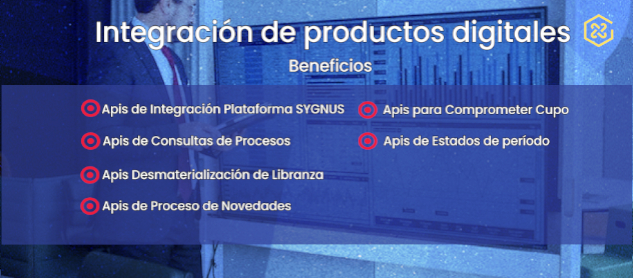
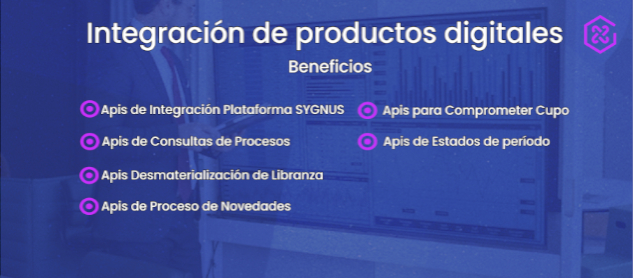
Changes products

diff --git a/Pagina_insNorth/index.html b/Pagina_insNorth/index.html
@@ -342,9 +342,6 @@
                       Beneficios legales
                     </h3>
 
-                    <p class="card-text">
-                      Cumplimiento de la Ley 1527 del 2012 y del decreto 1348 del 2016.
-                    </p>
                   </div>
                 </div>
               </a>
@@ -356,13 +353,7 @@
               <a href="assets/img/porf-2.jpg" class="portfolio-lightbox" data-gallery="portfolioGallery"><img alt="" src="assets/img/porf-2.jpg">
                 <div class="portfolio-over">
                   <div>
-                    <h3 class="card-title">
-                      Beneficios fiscales 
-                    </h3>
-
-                    <p class="card-text">
-                      Auditoría inmediata sobre todos los procesos de libranzas.
-                    </p>
+                    <i class="bi bi-person-check"></i>
                   </div>
                 </div>
               </a>
@@ -378,9 +369,7 @@
                       Beneficios operativos
                     </h3>
 
-                    <p class="card-text">
-                      Reduccción de carga operativa en todos los procesos de libranzas.
-                    </p>
+      
                   </div>
                 </div>
               </a>
@@ -396,9 +385,7 @@
                       Beneficios operativos
                     </h3>
 
-                    <p class="card-text">
-                      Integración al sistema documen68Hardal de la pagaduría.
-                    </p>
+    
                   </div>
                 </div>
               </a>
@@ -416,9 +403,6 @@
                       Beneficios legales 
                     </h3>
 
-                    <p class="card-text">
-                      Elimina totalmente el endeudamiento paralelo.
-                    </p>
                   </div>
                 </div>
               </a>
@@ -434,9 +418,6 @@
                       Servicios integrados
                     </h3>
 
-                    <p class="card-text">
-                      Compra de cartera.
-                    </p>
                   </div>
                 </div>
               </a>
@@ -452,9 +433,6 @@
                       Servicios integrados
                     </h3>
 
-                    <p class="card-text">
-                      Incorporación de Libranzas (Refinanciaciones, retiros, nuevos descuentos). 
-                    </p>
                   </div>
                 </div>
               </a>
@@ -470,9 +448,6 @@
                       Servicios integrados
                     </h3>
 
-                    <p class="card-text">
-                      Consulta de capacidad de endeudamiento y reserva de cupo
-                    </p>
                   </div>
                 </div>
               </a>

diff --git a/Pagina_insNorth/assets/css/style.css b/Pagina_insNorth/assets/css/style.css
@@ -442,7 +442,7 @@ a:hover {
   content: "";
   z-index: 0;
   position: absolute;
-  background: rgba(24, 24, 24, 0.8);
+  background: rgba(1, 18, 61, 0.8);
   width: 100%;
   height: 100%;
   left: 0;
